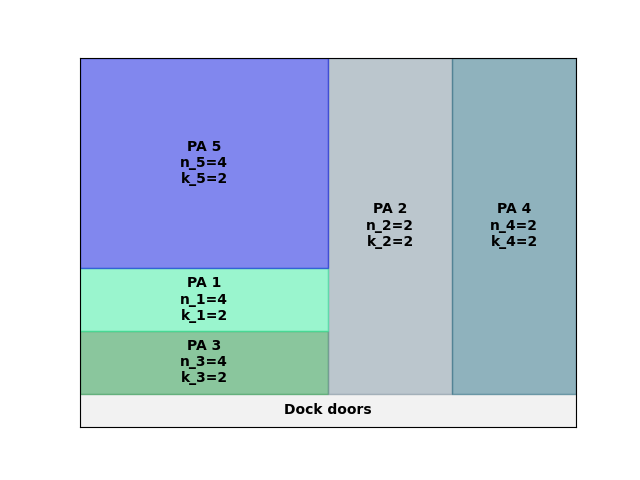
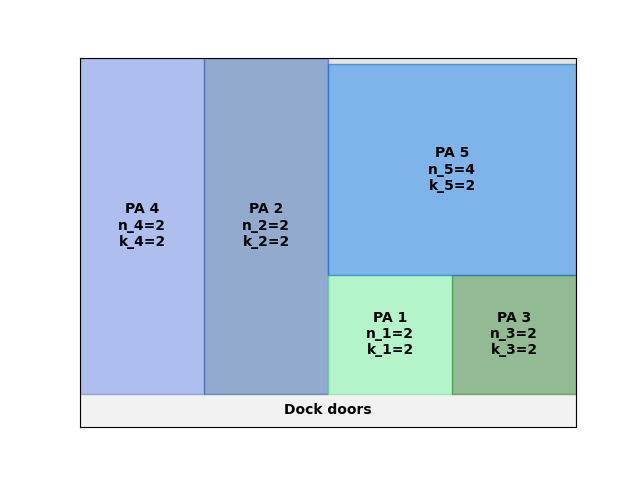
Changed order to Goncalves type, added function to randomly generate instances

diff --git a/classes/genetic_algorithm.py b/classes/genetic_algorithm.py
@@ -55,7 +55,8 @@ class GeneticAlgorithm:
 
         # Add one feasible solution
         if instance == 2:
-            self.population.append(([2, 4, 1, 3, 5, 4, 2, 4, 2, 4, 2, 2, 2, 2, 2], 851.4766715860002, True))
+            self.population.append(([0.4, 0.8, 0.2, 0.6, 0, 4, 2, 4, 2, 4, 2, 2, 2, 2, 2], 851.4766715860002, True))
+            self.population.append(([0.4, 0.8, 0.2, 0.6, 0, 2, 2, 2, 2, 4, 2, 2, 3, 2, 4], 300, True))
 
         # Iterate
         last_improvement = 0
@@ -82,7 +83,7 @@ class GeneticAlgorithm:
             else:
                 print("\r\nObjective value did not improve")
 
-        # Get final solution
+        # Get final solution, this returns None if there is no feasible solution
         solution = self.get_final_solution()
 
         # If we have a solution, report on it
@@ -109,7 +110,7 @@ class GeneticAlgorithm:
             # Process solution
             self.warehouse.process(solution[0])
 
-        # Draw solution
+        # Draw solution as a PNG
         self.warehouse.draw(save=True, filename=f'output/sol{instance}.png')
         self.warehouse.draw()
 
@@ -118,9 +119,8 @@ class GeneticAlgorithm:
                        self.warehouse.get_PA_dimensions())
 
     def create_random_chromosome(self):
-        # Create random order
-        order = np.arange(1, self.N + 1)
-        np.random.shuffle(order)
+        # Create random order as done in Goncalves
+        order = np.random.random_sample(self.N)
 
         # Create random number of aisles
         aisles = np.random.randint(1, self.n_max, size=self.N)
@@ -269,21 +269,24 @@ class GeneticAlgorithm:
     def create_children(self, chromosomes, size):
         children = []
         for i in np.arange(size):
-            # Get division from either
-            r = np.random.randint(0, len(chromosomes), size=2 * self.N + 2)
+            # Get indexes of which two parents we inherit the order
+            mother_index, father_index = np.random.randint(0, len(chromosomes), size=2)
 
-            # First random number decides which order we inherit
-            order = chromosomes[r[0]][:self.N]
+            # Decide on mother and father chromosome
+            mother, father = chromosomes[mother_index], chromosomes[father_index]
 
-            # 2 to N+1 decide which number of aisles we inherit from which chromosome
+            # Take the average of both parents as the new order
+            order = (np.array(mother[:self.N]) + np.array(father[:self.N])) / 2
+
+            # Take the number of aisles from the mother or father with 50/50 chance
             aisles = []
-            for j in np.arange(1, self.N + 1):
-                aisles.append(chromosomes[r[j]][self.N + j - 1])
+            for index in np.arange(self.N, 2 * self.N):
+                aisles.append(mother[index] if random() < .5 else father[index])
 
-            # N+2 to 2N+1 decide number of cross-aisles we inherit
+            # Take the number of cross-aisles from the mother or father with 50/50 chance
             cross_aisles = []
-            for j in np.arange(self.N + 1, 2 * self.N + 1):
-                cross_aisles.append(chromosomes[r[j]][self.N + j - 1])
+            for index in np.arange(2 * self.N, 3 * self.N):
+                cross_aisles.append(mother[index] if random() < .5 else father[index])
 
             # Create child
             child = [*order, *aisles, *cross_aisles]
@@ -302,24 +305,27 @@ class GeneticAlgorithm:
 
         # Change a single aisle
         if .8 < mutation < .9:
-            index = randrange(self.N-1)
+            index = randrange(self.N - 1)
             change = 1 if random() < .75 else -1
-            chromosome[self.N+index] = chromosome[self.N+index] + change
-            chromosome[self.N+index] = chromosome[self.N+index] if chromosome[self.N+index] <= self.n_max else self.n_max
-            chromosome[self.N+index] = chromosome[self.N+index] if chromosome[self.N+index] >= self.n_min[index] else self.n_min[index]
+            chromosome[self.N + index] = chromosome[self.N + index] + change
+            chromosome[self.N + index] = chromosome[self.N + index] if chromosome[
+                                                                           self.N + index] <= self.n_max else self.n_max
+            chromosome[self.N + index] = chromosome[self.N + index] if chromosome[self.N + index] >= self.n_min[
+                index] else self.n_min[index]
 
         # Change a single cross-aisle
         if .9 < mutation:
-            index = randrange(self.N-1)
+            index = randrange(self.N - 1)
             change = 1 if random() < .25 else -1
-            chromosome[2*self.N+index] = chromosome[2*self.N+index] + change
-            chromosome[2*self.N+index] = chromosome[2*self.N+index] if chromosome[2*self.N+index] <= 10 else 10
-            chromosome[2*self.N+index] = chromosome[2*self.N+index] if chromosome[2*self.N+index] >= 2 else 2
+            chromosome[2 * self.N + index] = chromosome[2 * self.N + index] + change
+            chromosome[2 * self.N + index] = chromosome[2 * self.N + index] if chromosome[
+                                                                                   2 * self.N + index] <= 10 else 10
+            chromosome[2 * self.N + index] = chromosome[2 * self.N + index] if chromosome[
+                                                                                   2 * self.N + index] >= 2 else 2
 
         # Randomly mutate order
         if .2 < mutation < .8:
-            order = chromosome[:self.N]
-            np.random.shuffle(order)
+            order = np.random.random_sample(self.N)
             chromosome[:self.N] = order
 
         # Randomly mutate aisles

diff --git a/functions/data_handling.py b/functions/data_handling.py
@@ -2,6 +2,8 @@ import pandas as pd
 import pathlib
 import csv
 import numpy as np
+import math
+from random import randrange, random
 
 # Directory path
 directory = str(pathlib.Path().resolve())
@@ -32,7 +34,7 @@ except Exception:
 def lookup_travel_distance(n, k, m):
     if isinstance(m, list):
         # Calculate average travel distance based on distribution of order sizes
-        order_sizes = np.arange(1, len(m)+1)
+        order_sizes = np.arange(1, len(m) + 1)
         m = np.array(m)
 
         # Calculate expected travel distance
@@ -46,6 +48,86 @@ def lookup_travel_distance(n, k, m):
         return expected_travel_distance
     else:
         return df.loc[(n, k, m)]["distance"]
+
+
+def create_instances(number, max_N=20):
+    for index in range(number):
+        # Number of picking areas
+        N = randrange(4, max_N)
+
+        # Aisle sizes
+        w_i = randrange(1, 10)
+        v_i = randrange(1, 10)
+
+        # Storage capacities
+        S = np.random.randint(100, 1000, size=N)
+
+        # Replenishment
+        alpha = [5 * random() for x in range(N)]
+
+        # Order size distributions
+        u = []
+        for i in np.arange(N):
+            array = np.random.randint(100, size=30)
+            dist = array / sum(array)
+            u.append(dist)
+
+        # Calculate mean order size per picking area
+        mean_u = []
+        for dist in u:
+            number_items = np.arange(1, len(dist) + 1)
+            mean_u.append(round(np.inner(dist, number_items)))
+
+        # Surface
+        surface = 0
+        for s_i in S:
+            # Random number of aisles
+            n = randrange(1, 5 * N)
+
+            # Calculate width and height
+            w = w_i * n
+            h = s_i / n + v_i * 2
+
+            # Add to surface
+            surface = surface + w * h
+
+        # Add a random percentage to required surface
+        surface = (1 + random()) * surface
+
+        # Width and height
+        W = randrange(round(math.sqrt(surface) / 3), round(3 * math.sqrt(surface)))
+        H = math.ceil(surface / W)
+
+        # Write lines
+        f = open('input/inst' + str(3 + index) + '.csv', 'w')
+
+        # Write W
+        f.write(str(W) + "\n")
+
+        # Write H
+        f.write(str(H) + "\n")
+
+        # Write N
+        f.write(str(N) + "\n")
+
+        # Write w_i
+        f.write(str(w_i) + "\n")
+
+        # Write v_i
+        f.write(str(v_i) + "\n")
+
+        # Write S
+        f.write(",".join(str(s_i) for s_i in S) + "\n")
+
+        # Write alpha
+        f.write(",".join(str(a) for a in alpha) + "\n")
+
+        # Write distributio
+        for u_i in u:
+            f.write(",".join(str(x) for x in u_i) + "\n")
+
+        # Close CSV file
+        f.close()
 
 
 def read_instance(instance):
@@ -79,7 +161,7 @@ def read_instance(instance):
     # Calculate mean order size per picking area
     mean_u = []
     for dist in u:
-        number_items = np.arange(1, len(dist)+1)
+        number_items = np.arange(1, len(dist) + 1)
         mean_u.append(round(np.inner(dist, number_items)))
 
     # Return
@@ -106,5 +188,3 @@ def write_instance(instance, obj_value, coordinates):
 
     # Close CSV file
     f.close()
-
-

diff --git a/classes/warehouse.py b/classes/warehouse.py
@@ -73,11 +73,12 @@ class Warehouse:
         aisles = chromosome[N:(2 * N)]
         cross_aisles = chromosome[(2 * N):(3 * N)]
 
-        for number in order:
-            # Get index
-            index = number - 1
+        # np.argsort converts the goncalves order to an array of indexes
+        for index in np.argsort(order):
+            # Get number from index
+            number = index + 1
 
-            # Get number of aisles
+            # Get number of aisles, cross-aisles, storage capacity, order distribution and replenishment constant
             n = aisles[index]
             k = cross_aisles[index]
             s_i = self.storage_capacities[index]
@@ -90,10 +91,12 @@ class Warehouse:
             # Insert picking area
             self.insert_picking_area(picking_area)
 
+            # If we choose to animate the placement, we set animate to True
             if self.animate:
                 # Draw animation frame
                 self.draw(True)
 
+        # If we choose to animate the placement, we set animate to True
         if self.animate:
             # Create animation
             self.create_animation()
@@ -286,7 +289,7 @@ class Warehouse:
             cy = ry + rectangle.get_height() / 2
 
             # Content
-            content = PA.name + "\nn_" + str(PA.number) + "=" + str(PA.n) + "\nk_" + str(PA.number) + "=" + str(PA.k)
+            content = PA.name + "\nn_" + str(PA.number) + "=" + str(round(PA.n)) + "\nk_" + str(PA.number) + "=" + str(round(PA.k))
 
             # Place annotation
             ax.annotate(content, (cx, cy), color="black", weight="bold", fontsize=10, ha='center', va='center')

diff --git a/main.py b/main.py
@@ -1,6 +1,25 @@
 from classes import GeneticAlgorithm
+from functions import create_instances
+import os
+from pathlib import Path
 
-# Instantiate genetic algorithm
-algorithm = GeneticAlgorithm()
-algorithm.run(2)
+# Create some random instances
+create_instances(10)
+
+# Directory path
+directory = str(Path().resolve())
+pathlist = Path(directory + "/input").glob("*.csv")
+for path in pathlist:
+    # Convert to string
+    path_in_str = str(path)
+
+    # Get instance
+    instance = int(path_in_str.split("inst").pop().split(".csv").pop(0))
+
+    # Instantiate genetic algorithm
+    algorithm = GeneticAlgorithm()
+
+    # Run instance
+    print("Running instance", instance)
+    algorithm.run(instance)
 

diff --git a/functions/__init__.py b/functions/__init__.py
@@ -1,2 +1,2 @@
 # __init__.py
-from .data_handling import lookup_travel_distance, read_instance, write_instance
+from .data_handling import lookup_travel_distance, read_instance, write_instance, create_instances
